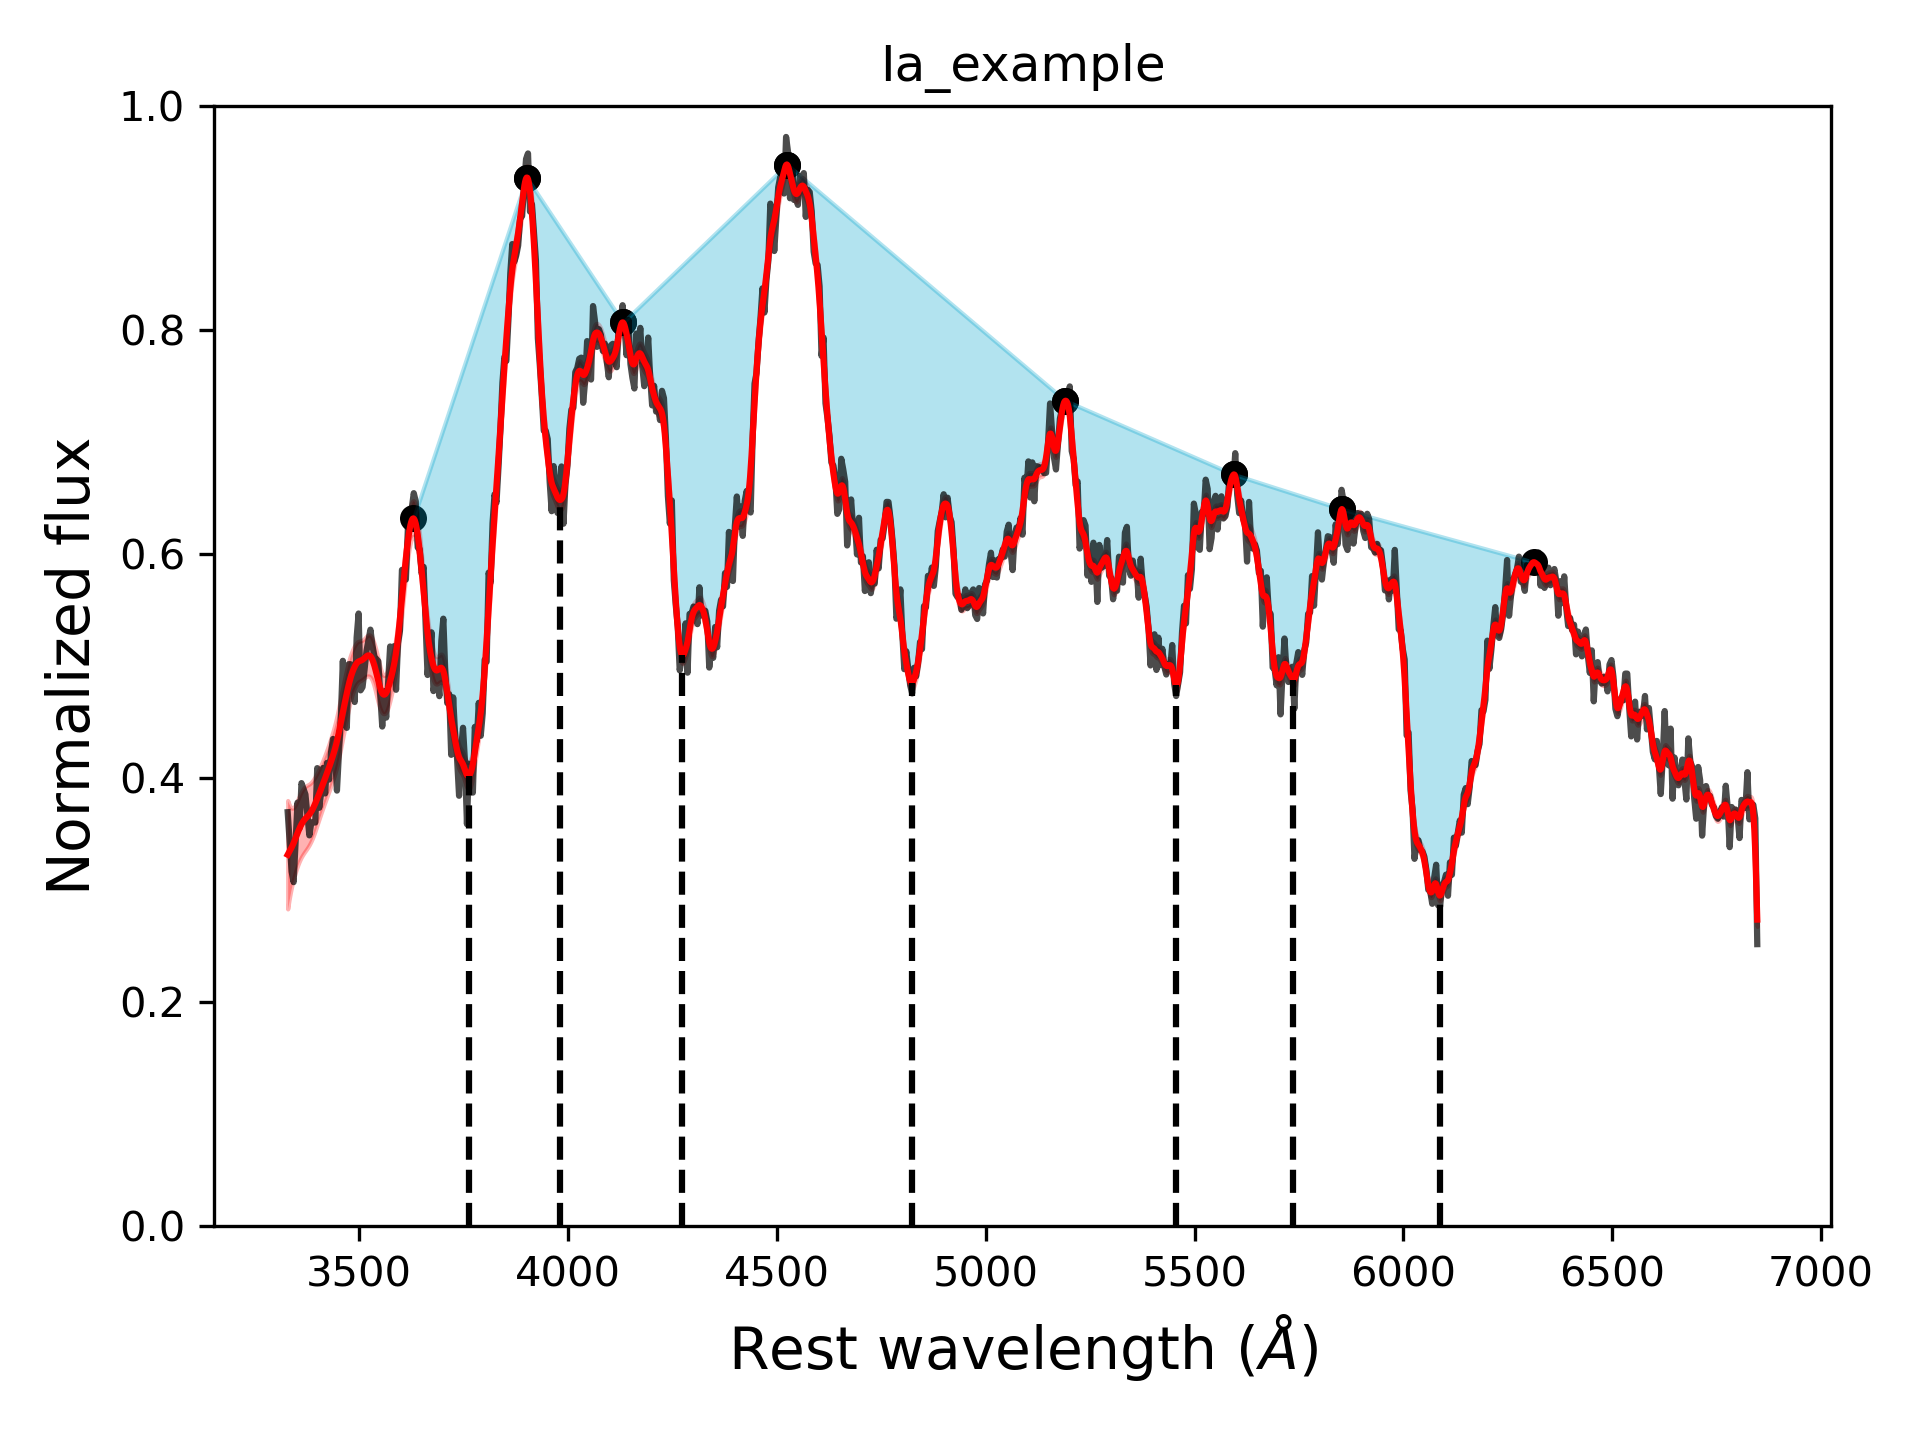
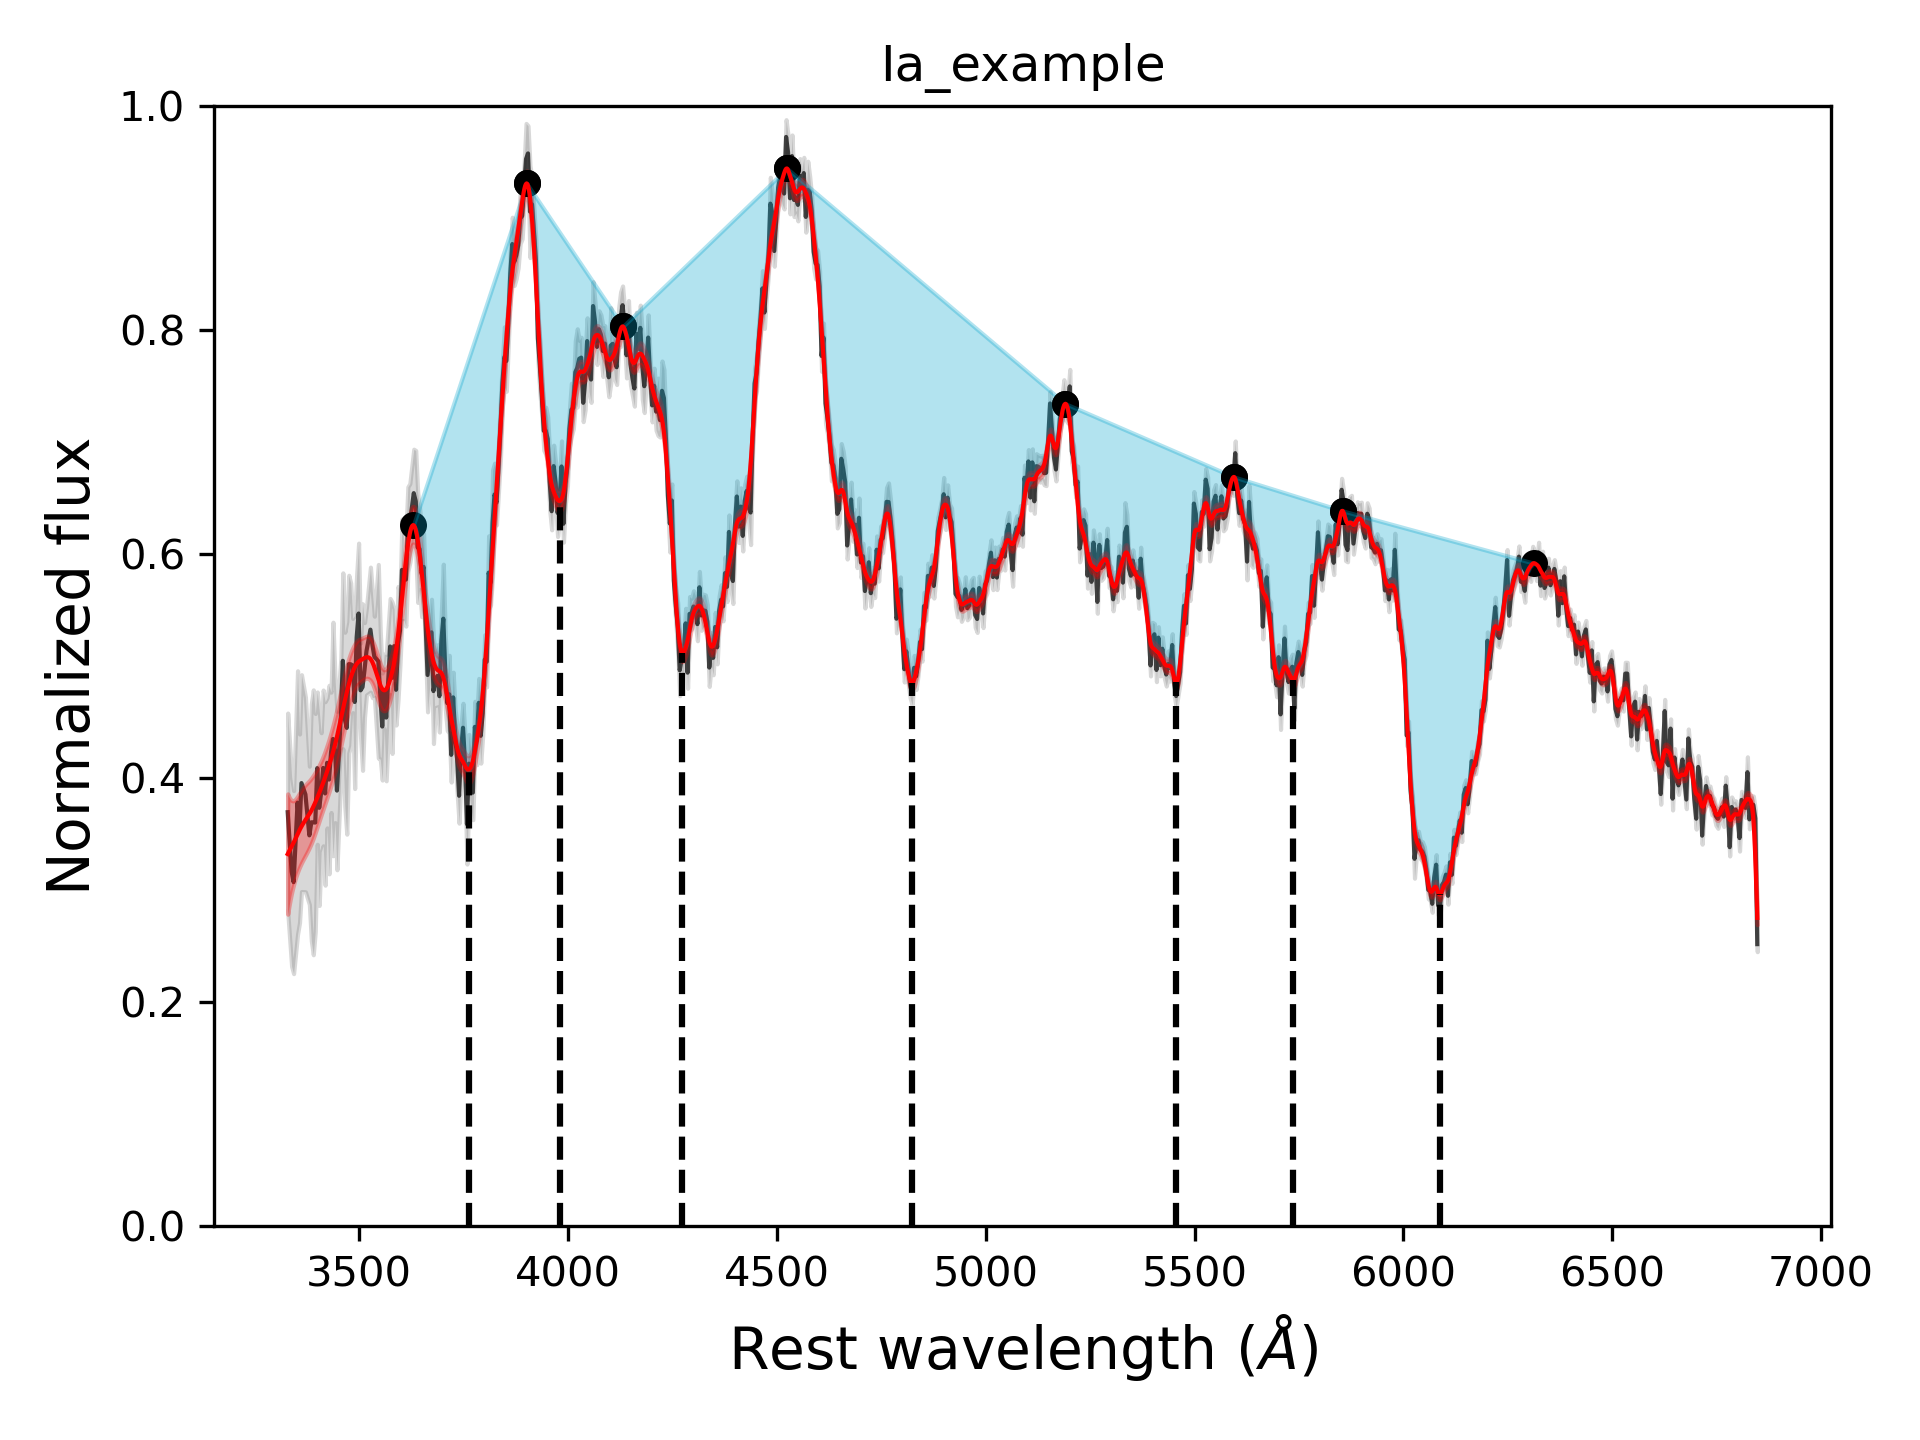
optimize downsampling

diff --git a/spextractor/util/interpolate.py b/spextractor/util/interpolate.py
@@ -1,0 +1,61 @@
+import numpy as np
+
+
+def interp_linear(x_new, x, y, y_err=None):
+    '''
+
+    '''
+    if isinstance(x_new, (float, int)):
+        x_new = np.array([x_new])
+
+    x_new = np.asarray(x_new)
+    x = np.asarray(x)
+    y = np.asarray(y)
+    if y_err is not None:
+        y_err = np.asarray(y_err)
+
+    lower_mask = x[0] < x_new
+    upper_mask = x_new < x[-1]
+    total_mask = lower_mask * upper_mask
+    x_check = x_new[total_mask]
+
+    y_new = np.zeros_like(x_new)
+    y_new[~lower_mask] = y[0]
+    y_new[~upper_mask] = y[-1]
+
+    if y_err is not None:
+        y_var = y_err**2
+        y_var_new = np.zeros_like(x_new)
+        y_var_new[~lower_mask] = y_var[0]
+        y_var_new[~upper_mask] = y_var[-1]
+
+    ind_upper = np.searchsorted(x, x_check)
+    ind_lower = ind_upper - 1
+
+    dx_total = x[ind_upper] - x[ind_lower]
+    slope = (y[ind_upper] - y[ind_lower]) / dx_total
+
+    dx = x_check - x[ind_lower]
+    y_new[total_mask] = y[ind_lower] + dx * slope
+
+    if y_err is not None:
+        upper_dx = x[ind_upper] - x_check
+        upper_err_mask = upper_dx < dx
+        lower_err_mask = ~upper_err_mask
+
+        slope_var = (y_var[ind_upper] + y_var[ind_lower]) / dx_total**2
+
+        # some absolute BS to do nested masking
+        lower_err_ind = tuple([a[lower_err_mask] for a in np.where(total_mask)])
+        upper_err_ind = tuple([a[upper_err_mask] for a in np.where(total_mask)])
+
+        y_var_new[lower_err_ind] = \
+            y_var[ind_lower][lower_err_mask] + \
+            dx[lower_err_mask]**2 * slope_var[lower_err_mask]
+        y_var_new[upper_err_ind] = \
+            y_var[ind_upper][upper_err_mask] + \
+            upper_dx[upper_err_mask]**2 * slope_var[upper_err_mask]
+
+        return y_new, y_var_new
+
+    return y_new
